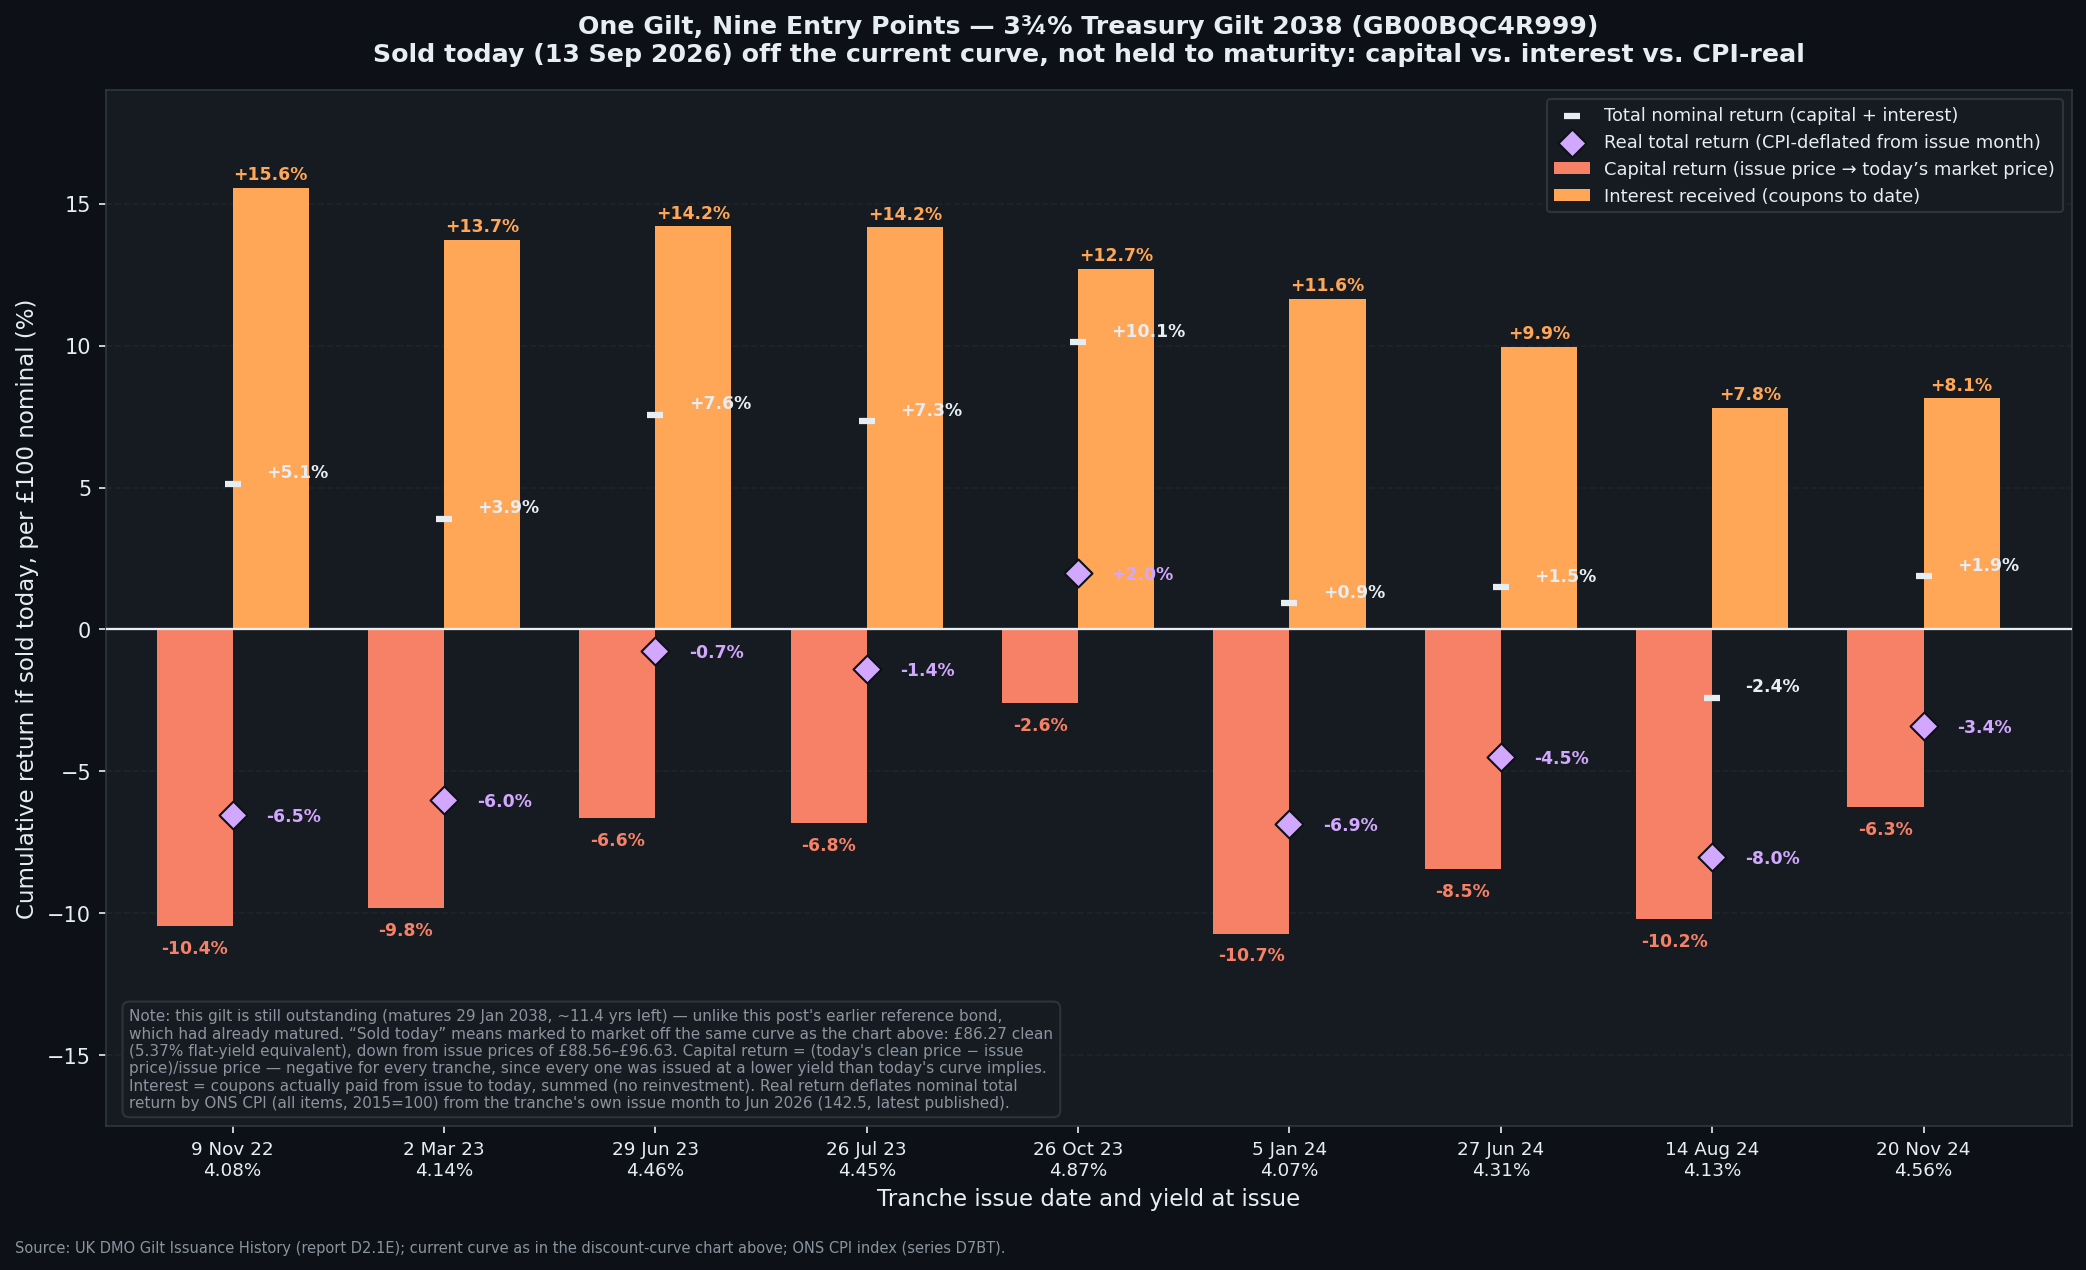
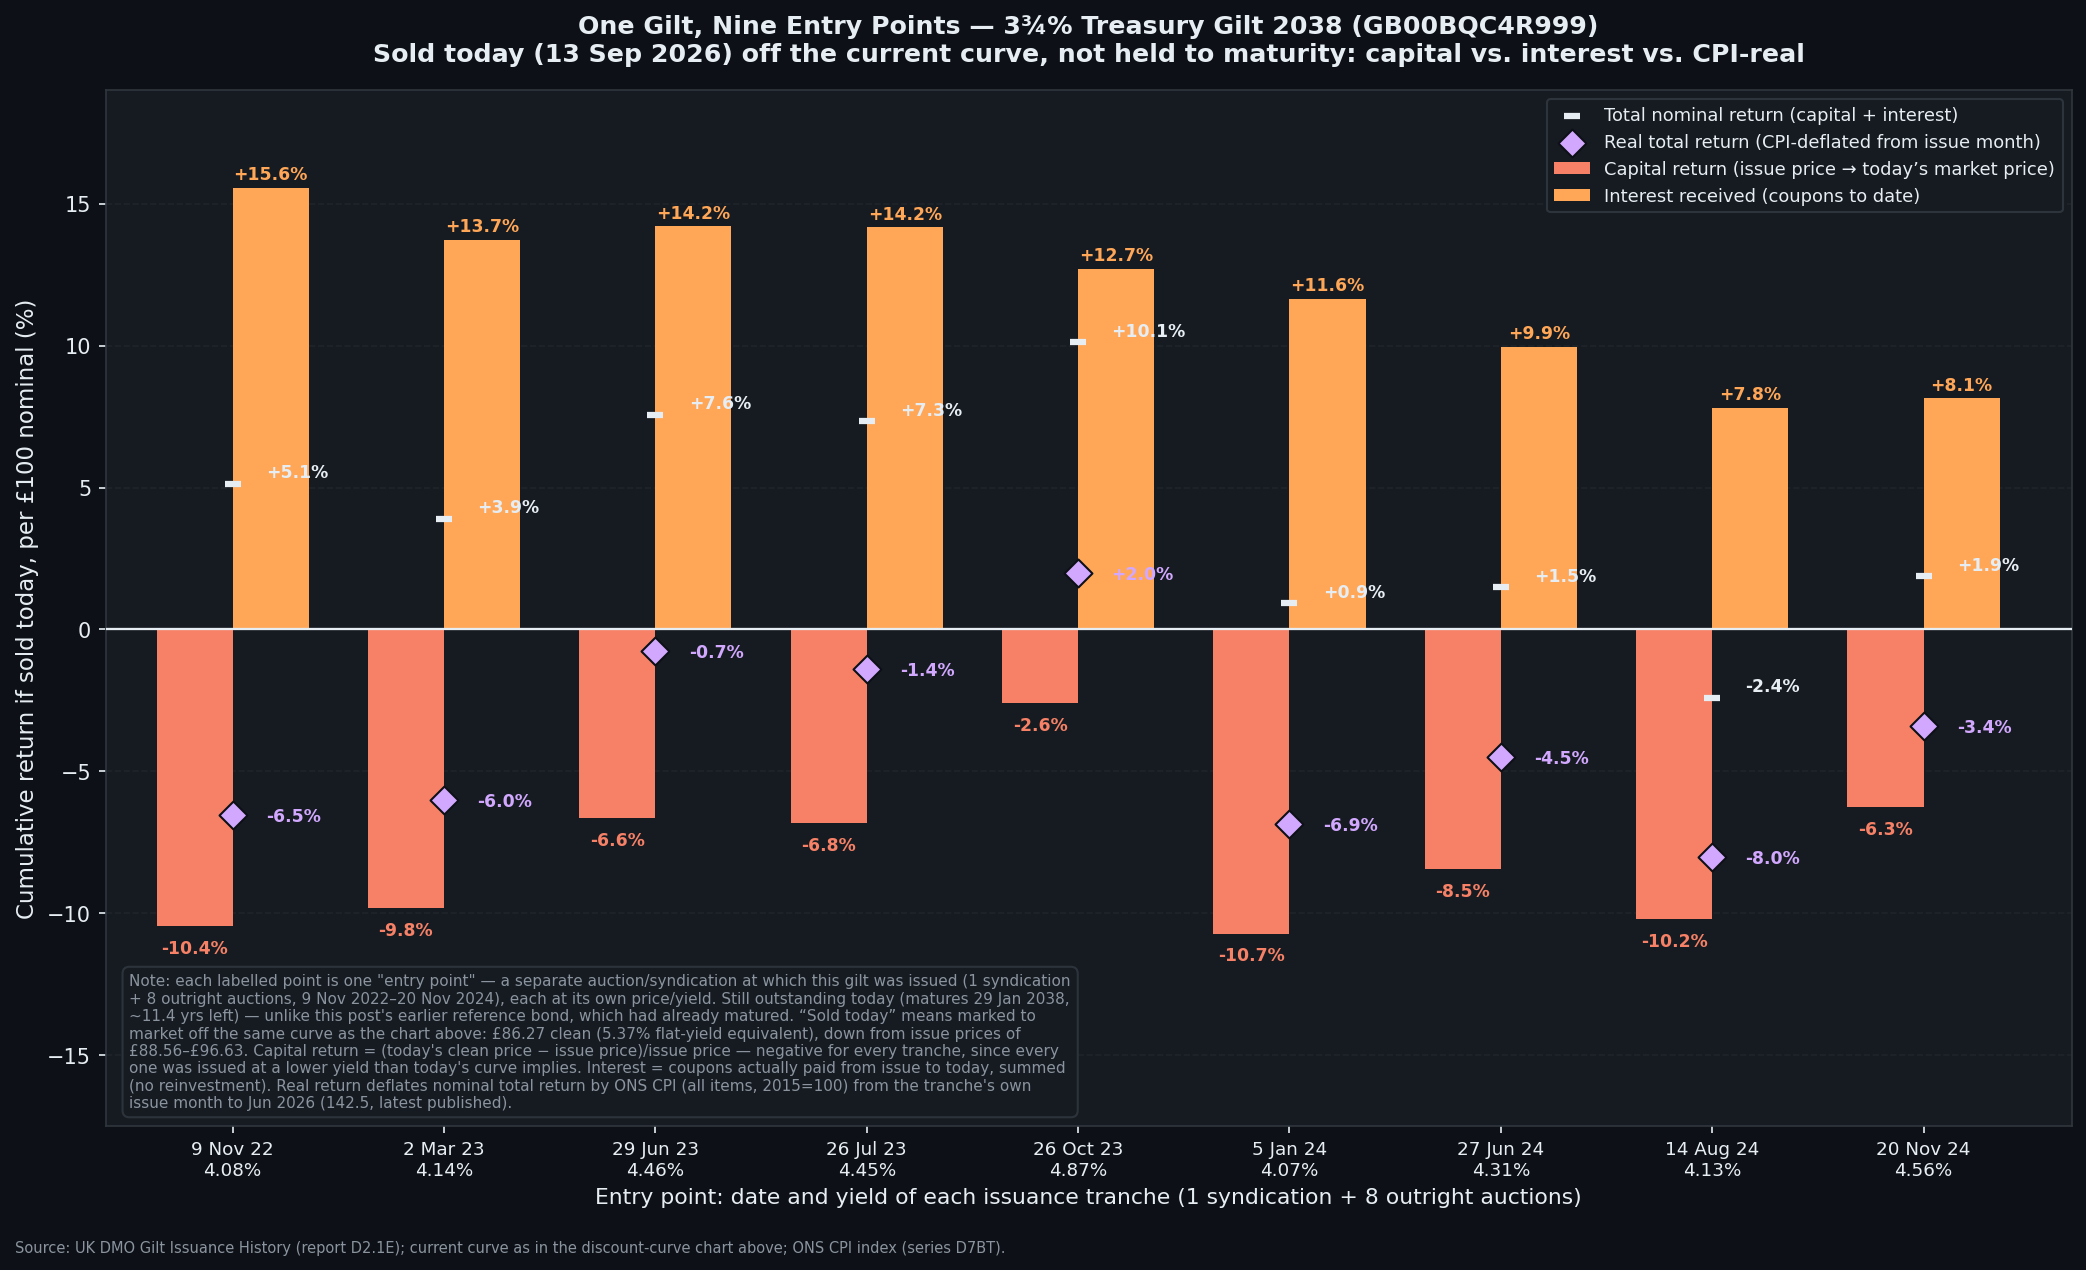
Define "entry point" in post text and on the tranche-returns chart
Adds an explicit definition where the term is introduced: one of the
nine separate occasions (1 syndication + 8 outright auctions,
9 Nov 2022-20 Nov 2024) an investor could buy GB00BQC4R999 at issue.
Same clarification added to the chart's x-axis label and note box.

Claude-Session: https://claude.ai/code/session_01YTULTuWuszhoQVZSaLSyvE

Changed region(s): [[0.0623, 0.7677, 0.5297, 0.8906], [0.2804, 0.9213, 0.6232, 0.952], [0.6544, 0.9213, 0.7478, 0.952]]

diff --git a/static/data/economics/gilt_2038_tranche_chart.py b/static/data/economics/gilt_2038_tranche_chart.py
@@ -73,7 +73,7 @@ for xi, r, t in zip(x, res['real_pct'], res['total_pct']):
 ax.axhline(0, color=TEXT_COL, linewidth=1.1, zorder=4)
 ax.set_xticks(x)
 ax.set_xticklabels(labels, fontsize=8.8)
-ax.set_xlabel('Tranche issue date and yield at issue', fontsize=11)
+ax.set_xlabel('Entry point: date and yield of each issuance tranche (1 syndication + 8 outright auctions)', fontsize=10.5)
 ax.set_ylabel('Cumulative return if sold today, per £100 nominal (%)', fontsize=11)
 ax.set_title('One Gilt, Nine Entry Points — 3¾% Treasury Gilt 2038 (GB00BQC4R999)\nSold today (13 Sep 2026) off the current curve, not held to maturity: capital vs. interest vs. CPI-real',
              fontsize=12.1, fontweight='bold', pad=14)
@@ -82,12 +82,14 @@ ax.grid(axis='y', alpha=0.35)
 ax.set_xlim(-0.6, len(res) - 0.3)
 ax.set_ylim(-17.5, 19)
 
-note = ("Note: this gilt is still outstanding (matures 29 Jan 2038, ~11.4 yrs left) — unlike this post's earlier reference bond,\n"
-        "which had already matured. “Sold today” means marked to market off the same curve as the chart above: £86.27 clean\n"
-        "(5.37% flat-yield equivalent), down from issue prices of £88.56–£96.63. Capital return = (today's clean price − issue\n"
-        "price)/issue price — negative for every tranche, since every one was issued at a lower yield than today's curve implies.\n"
-        "Interest = coupons actually paid from issue to today, summed (no reinvestment). Real return deflates nominal total\n"
-        "return by ONS CPI (all items, 2015=100) from the tranche's own issue month to Jun 2026 (142.5, latest published).")
+note = ("Note: each labelled point is one \"entry point\" — a separate auction/syndication at which this gilt was issued (1 syndication\n"
+        "+ 8 outright auctions, 9 Nov 2022–20 Nov 2024), each at its own price/yield. Still outstanding today (matures 29 Jan 2038,\n"
+        "~11.4 yrs left) — unlike this post's earlier reference bond, which had already matured. “Sold today” means marked to\n"
+        "market off the same curve as the chart above: £86.27 clean (5.37% flat-yield equivalent), down from issue prices of\n"
+        "£88.56–£96.63. Capital return = (today's clean price − issue price)/issue price — negative for every tranche, since every\n"
+        "one was issued at a lower yield than today's curve implies. Interest = coupons actually paid from issue to today, summed\n"
+        "(no reinvestment). Real return deflates nominal total return by ONS CPI (all items, 2015=100) from the tranche's own\n"
+        "issue month to Jun 2026 (142.5, latest published).")
 ax.text(0.012, 0.015, note, transform=ax.transAxes, fontsize=7.3, color=MUTED,
         va='bottom', ha='left', bbox=dict(boxstyle='round,pad=0.45', facecolor=DARK_AXES, edgecolor=GRID_COL, alpha=0.92))
 

diff --git a/content/blog/economics/not-a-buffer-thats-a-wafer.md b/content/blog/economics/not-a-buffer-thats-a-wafer.md
@@ -43,7 +43,7 @@ That gilt is the **3¾% Treasury Gilt 2038** (ISIN GB00BQC4R999), maturing 29 Ja
 
 ## Nine entry points, one sale price
 
-Reprice the 3¾% 2038's remaining cash flows off the same curve as the chart above, and it comes out to **£86.27 clean today** (£86.74 dirty), equivalent to a flat yield of 5.37% — modified duration is about 8.9 years at that level. Every one of the nine tranches gets marked to that same exit price, because it's the same bond; the only thing that differs between tranches is what an investor originally paid to get in.
+An **entry point**, here, just means one of the nine separate occasions — one syndication and eight ordinary "outright" auctions, 9 November 2022 through 20 November 2024 — on which an investor could actually buy this gilt when it was issued, each at its own price and yield. Reprice the 3¾% 2038's remaining cash flows off the same curve as the chart above, and it comes out to **£86.27 clean today** (£86.74 dirty), equivalent to a flat yield of 5.37% — modified duration is about 8.9 years at that level. Every one of the nine tranches gets marked to that same exit price, because it's the same bond; the only thing that differs between entry points is what an investor originally paid to get in.
 
 {{< figure src="/images/economics/fiscal-outlook-2038-gilt-tranche-returns.png" caption="If sold today off the current curve: capital return, interest received, and CPI-real return, by 2022–24 issuance tranche of the 3¾% Treasury Gilt 2038 (GB00BQC4R999)" >}}
 
